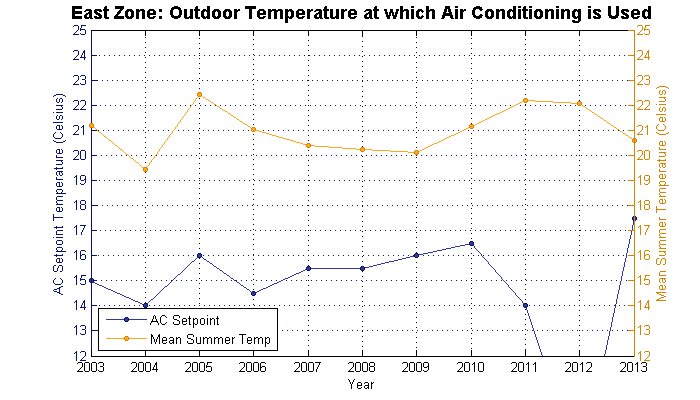
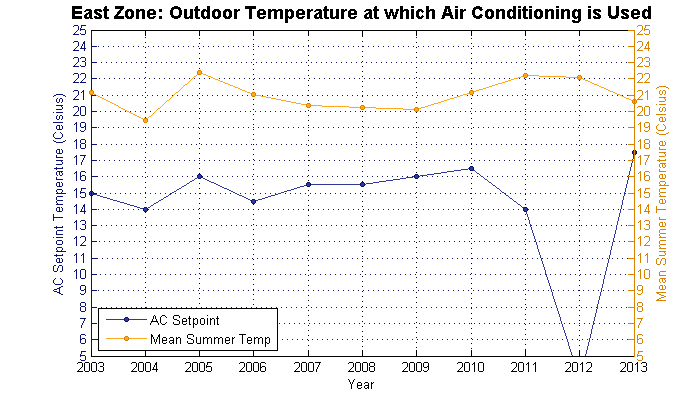
Added the Niagara plots now that data is fixed. Also updated old plots for other zones.

diff --git a/MATLAB/zonal_three_line_model.m b/MATLAB/zonal_three_line_model.m
@@ -6,27 +6,30 @@ baseload_annually = [];
 start_year = 2003;
 end_year = 2013;
 
-% zone_name = 'Toronto';
-% location_id = 1;
-zone_name = 'Southwest';
-location_id = 2;
+
 % zone_name = 'West';
 % location_id = 13;
+% zone_name = 'Southwest';
+% location_id = 2;
+% zone_name = 'Bruce';
+% location_id = 7;
+% zone_name = 'Niagara';
+% location_id = 6;
+% zone_name = 'Toronto';
+% location_id = 1;
+% zone_name = 'East';
+% location_id = 3;
 
 %%% Problematic %%%
 % zone_name = 'Ottawa';
 % location_id = 5;
 
-% zone_name = 'Niagara';
-% location_id = 6;
-% zone_name = 'Bruce';
-% location_id = 7;
 % zone_name = 'Essa';
 % location_id = 8;
 % zone_name = 'Northeast';
 % location_id = 9;
-% zone_name = 'Northwest';
-% location_id = 10;
+zone_name = 'Northwest';
+location_id = 10;
 
 % Create figure
 plot_title = [zone_name ' Zone: Three-Line Model (' ...
@@ -40,8 +43,8 @@ title(three_line_axes, plot_title, 'FontWeight', 'bold', 'FontSize', 14);
 ylabel(three_line_axes, 'Electricity Demand (MW)');
 xlabel(three_line_axes, 'Outdoor Temperature (Celsius)');
 % axis([-35 40 3500 12500]); % Toronto
-axis([-35 40 1000 6000]); % Southwest
-% axis([-35 40 0 5000]); % West, Bruce, Essa, Northeast
+% axis([-35 40 1000 6000]); % Southwest
+axis([-35 40 0 5000]); % West, Bruce, Niagara, East, Essa, Northeast
 
 for year=start_year:end_year
     %%
@@ -197,9 +200,9 @@ title(baseload_axes, baseline_title, 'FontWeight', 'bold', 'FontSize', 14);
 ylabel(baseload_axes, 'Demand (MW)');
 xlabel(baseload_axes, 'Year');
 % axis([2003 2013 3500 4500]); % Toronto
-axis([2003 2013 2000 3000]); % Southwest
+% axis([2003 2013 2000 3000]); % Southwest
 % axis([2003 2013 1000 2000]); % West
-% axis([2003 2013 0 1000]); % Bruce, Essa, Northwest
+axis([2003 2013 0 1000]); % Bruce, East, Essa, Niagara, Northwest
 % axis([2003 2013 500 1500]); % Northeast
 plot(baseload_annually(:,1), baseload_annually(:,2), '-mo', ...
         'MarkerSize', 3, 'MarkerFaceColor', [0.17 0.61 0.22], ...
